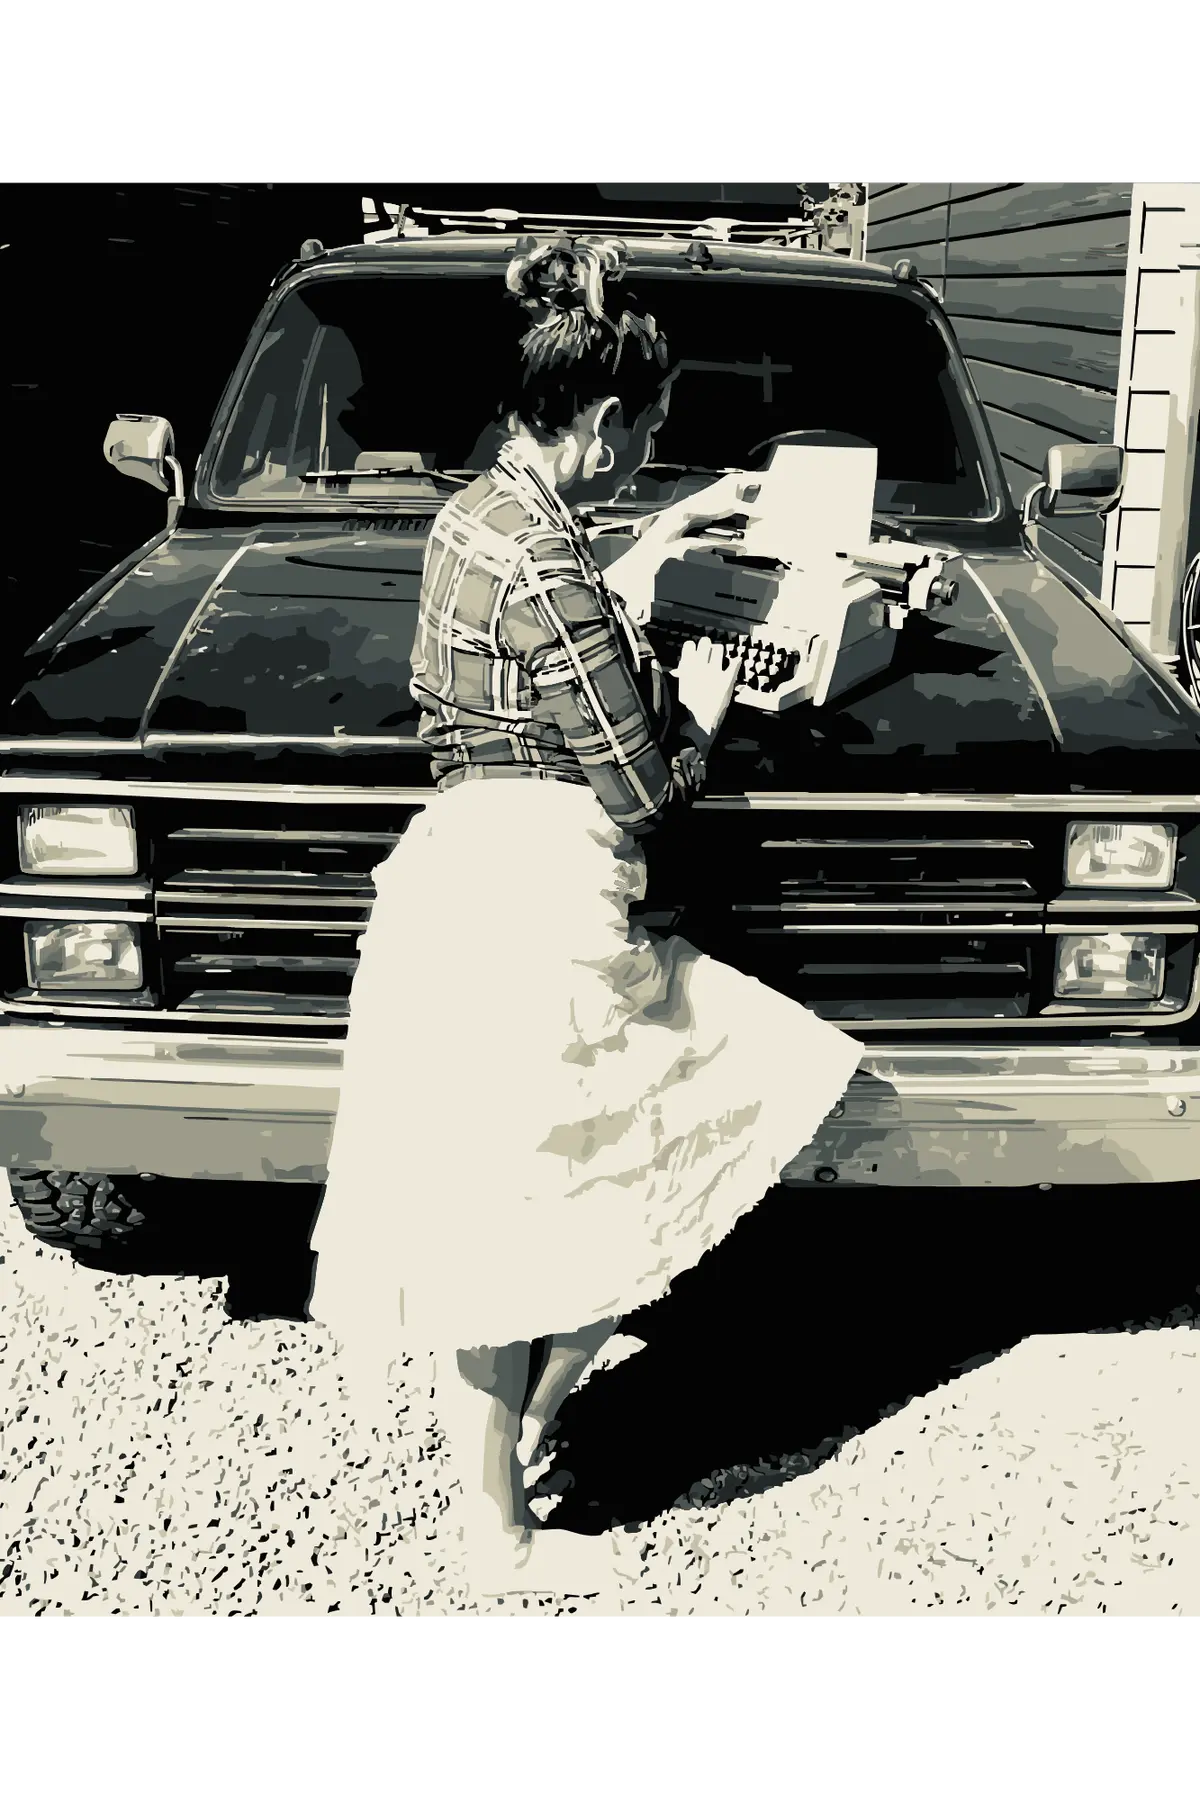
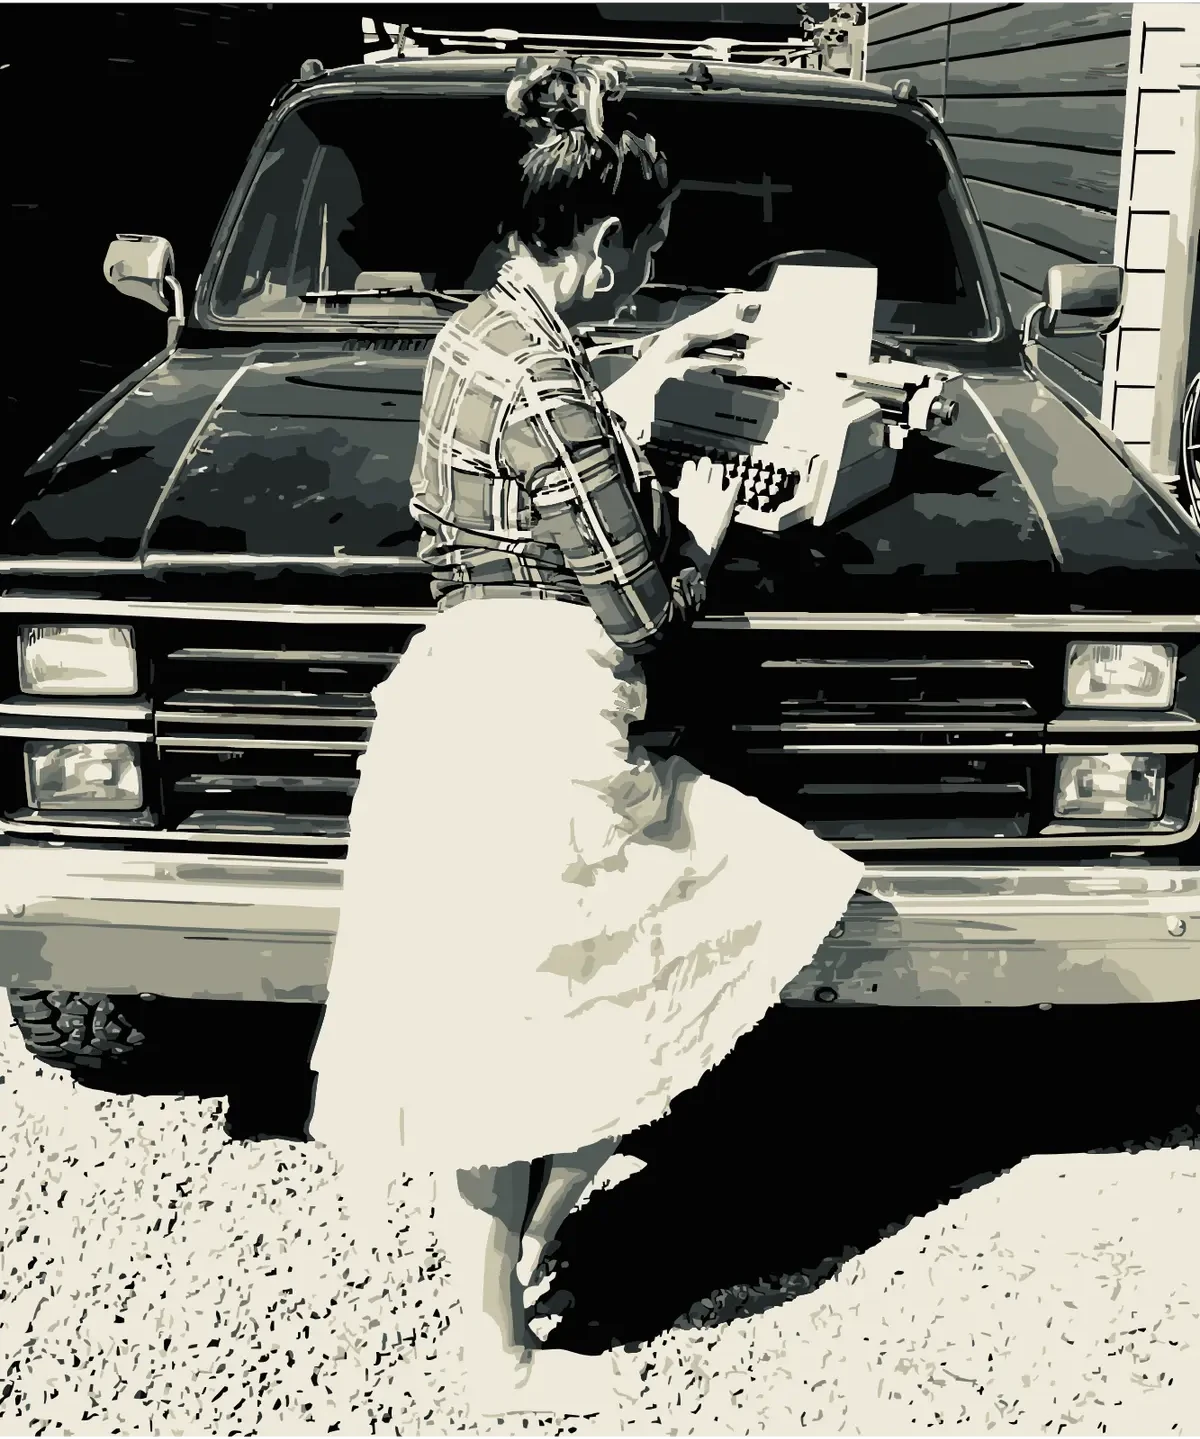
feat(site): tijdlijn aangevuld met het boek, zijwaartse scroll op In de pers, ManonIT-foto met afgeronde hoeken; vertaald in alle talen

diff --git a/src/Pages/Public/Tijdlijn.tsx b/src/Pages/Public/Tijdlijn.tsx
@@ -18,11 +18,12 @@ import { useContent } from "../../i18n/content";
 
 const historisch = [
     {
-        datum: "Vóór de villa",
+        datum: "1832",
         titel: "Timmerman Fukkink",
         emoji: "🪚",
         status: "historisch",
-        tekst: "Voordat Vredestein er stond, woonde op deze plek een timmerman met de naam Fukkink. Meer is over hem nog niet bekend.",
+        tekst: "Op het oudste kadastrale plan, dat van 1832, staat op deze plek een ‘huis, schuur en erf’ van timmerman Gerrit Fukkink. Hij overlijdt in 1834, zijn weduwe in 1843.",
+        detail: "Het eigenarenregister noemt het perceel een huis met schuur en erf van ongeveer zevenhonderdvijftig vierkante meter: een timmermanshuis met een werkplaats erachter, aan een weg die toen nog een rij dorpshuizen was. Wat er met het huis gebeurde, zeggen de bronnen niet; vermoedelijk is het gesloopt om plaats te maken voor de villa. Bron: Kadaster 1832, eigenarenregister Driebergen, sectie B, perceel 205.",
     },
     {
         datum: "1905",
@@ -55,6 +56,22 @@ const historisch = [
         afbeeldingAlt: "Krantenbericht over het pension, oktober 1912",
     },
     {
+        datum: "1914, 1915",
+        titel: "Het rustoord in oorlogstijd",
+        emoji: "🕯",
+        status: "historisch",
+        tekst: "In december 1914 overlijdt Gerritje Spruijt, de vrouw van directeur Sluijter, in Vredestein. In januari 1915 laat de oorlog het rustoord ‘bijna ontvolkt’ achter en vraagt het bestuur elke lezer van de krant om één gulden.",
+        detail: "Bronnen: De Stichtsche courant, 7 december 1914; De Standaard, 16 januari 1915; Het Utrechts Archief via Open Archieven.",
+    },
+    {
+        datum: "1916",
+        titel: "Het Kokerpark wordt geveild",
+        emoji: "🔨",
+        status: "historisch",
+        tekst: "In 1916 wordt het ‘Kokerpark’ geveild: Vredestein, Irma en de herenhuizen aan de Lindelaan. Vredestein brengt 7.400 gulden op.",
+        detail: "Bronnen: Algemeen Handelsblad, 31 augustus 1916; Het Nieuws, 30 september 1916.",
+    },
+    {
         datum: "1923, 1925",
         titel: "Gezusters van der Zijden",
         emoji: "🌿",
@@ -70,6 +87,14 @@ const historisch = [
         detail: "In juni 1933 adverteren ze landelijk met Pension „Villa Vredenstein”: kamers voor families, met aparte bediening en stromend water. Na de samenvoeging van de gemeenten in 1931-1932 wordt het huisnummer Hoofdstraat 83 omgezet in 147.",
         afbeelding: ImgAnsichtVredesteinP,
         afbeeldingAlt: "Ansichtkaart van Pension Villa Vredestein",
+    },
+    {
+        datum: "1926, 1934",
+        titel: "Twee Vredesteins naast elkaar",
+        emoji: "🏘",
+        status: "historisch",
+        tekst: "In 1926 drijven de zusters Van den Bosch ‘Pension Villa Vredestein’ op nummer 83, terwijl het rustoord van Sluijter op nummer 85 zit. Na de samenvoeging van Driebergen en Rijsenburg in 1931 wordt 83 nummer 147 en 85 nummer 149.",
+        detail: "In 1934 adverteert het pension als ‘Pension Villa Vredestein, Dames v.d. Bosch, Hoofdstr. 147’, en waarschuwt Sluijter: ‘men lette op het juiste adres, Hoofdweg 149’. Wie in oude kranten zoekt, moet dus goed opletten welk Vredestein bedoeld wordt. Bronnen: De Maasbode, 1 mei 1926; De Nederlander, 28 augustus 1926; Het Nieuws, 24 juli 1931 en 22 april 1932; De Telegraaf, 17 maart 1934.",
     },
     {
         datum: "1939, 1945",
@@ -99,6 +124,14 @@ const historisch = [
         afbeeldingAlt: "Familie Roelofsen, die opgroeide in Vredestein in de jaren zestig en zeventig",
     },
     {
+        datum: "1967",
+        titel: "Een garage bij het huis",
+        emoji: "🚗",
+        status: "historisch",
+        tekst: "In 1967 wordt een bouwaanvraag voor een garage ingediend. In datzelfde jaar staat het pand voor het eerst in het gebouwenregister.",
+        detail: "Bronnen: Regionaal Archief Zuid-Utrecht; Kadaster.",
+    },
+    {
         datum: "1975, 1977",
         titel: "Ortholab",
         emoji: "🔬",
@@ -118,7 +151,7 @@ const historisch = [
         emoji: "🎓",
         status: "historisch",
         tekst: "Dhr. Blooi, van een loodgieters- en dakdekkersbedrijf, koopt het pand na Ortholab en blijft eigenaar tot zijn overlijden. Onder zijn beheer is Vredestein ook een studentenhuis, onder meer voor de IVA-opleiding in Driebergen.",
-        detail: "Dhr. Blooi werkte zelf veel aan het pand. In de loop van de decennia raakte het totaaloverzicht verloren. Pas bij de restauratie in 2021 kwamen gasleidingen in de tuin en andere bijzondere aansluitingen aan het licht. In 1982 is het pand inzamelpunt van de Polenhulpactie. In welke jaren precies studenten in het huis woonden, wordt nog uitgezocht.",
+        detail: "Dhr. Blooi werkte zelf veel aan het pand. In de loop van de decennia raakte het totaaloverzicht verloren. Pas bij de restauratie in 2021 kwamen gasleidingen in de tuin en andere bijzondere aansluitingen aan het licht. In 1982 is het pand inzamelpunt van de Polenhulpactie. In welke jaren precies studenten in het huis woonden, wordt nog uitgezocht. Volgens de bewoners wordt Blooi in 1973 eigenaar; het Regionaal Archief Zuid-Utrecht kent verbouwingen in 1976, 1977, 1978 en 1980.",
     },
 ];
 

diff --git a/src/Pages/Public/InDePers.css b/src/Pages/Public/InDePers.css
@@ -497,3 +497,35 @@
 
 /* Krantenknipsels altijd volledig in beeld */
 .idp-thumb-img { object-fit: contain; object-position: center; background: #0e0b08; }
+
+/* ── Artikelen als zijwaarts scrollende rij met scrollbalk ── */
+.idp-articles-section {
+    flex-direction: row;
+    align-items: stretch;
+    max-width: 1300px;
+    gap: 1.5rem;
+    padding: 3rem 2rem 2rem;
+    overflow-x: auto;
+    scroll-snap-type: x mandatory;
+    scroll-padding: 0 2rem;
+    -webkit-overflow-scrolling: touch;
+    scrollbar-width: thin;
+    scrollbar-color: #FCBC2D #1a140c;
+}
+.idp-articles-section::-webkit-scrollbar { height: 8px; }
+.idp-articles-section::-webkit-scrollbar-track { background: #1a140c; border-radius: 8px; }
+.idp-articles-section::-webkit-scrollbar-thumb { background: #FCBC2D; border-radius: 8px; }
+.idp-articles-section .idp-article {
+    flex: 0 0 min(380px, 82%);
+    grid-template-columns: 1fr;
+    grid-template-rows: auto 1fr;
+    scroll-snap-align: start;
+}
+.idp-articles-section .idp-reveal { opacity: 1; transform: none; }
+.idp-articles-section .idp-thumb-col { height: 340px; }
+.idp-articles-section .idp-thumb-btn { min-height: 0; height: 100%; }
+@media (max-width: 600px) {
+    .idp-articles-section { padding: 2rem 1.25rem 1.5rem; scroll-padding: 0 1.25rem; }
+    .idp-articles-section .idp-thumb-col { height: 280px; }
+}
+.idp-articles-section .idp-article-body { justify-content: flex-start; padding: 1.5rem 1.5rem 2rem; }
